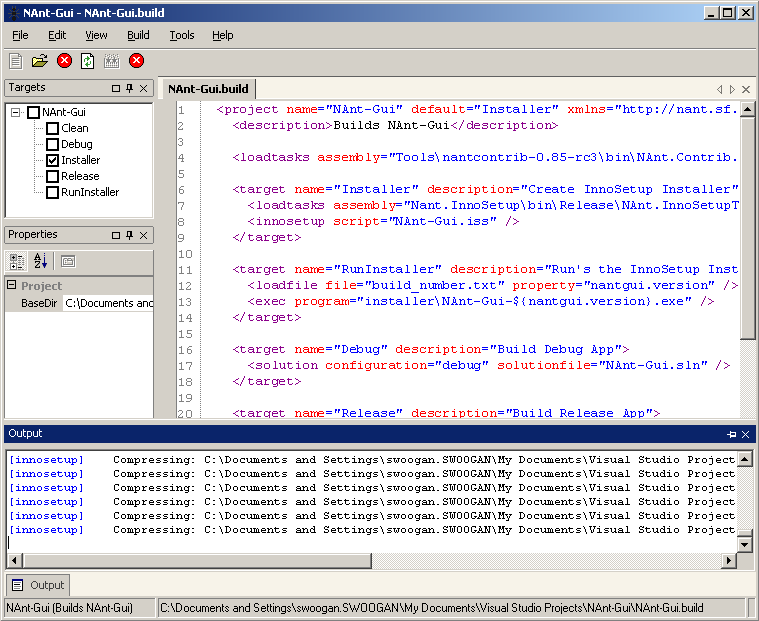
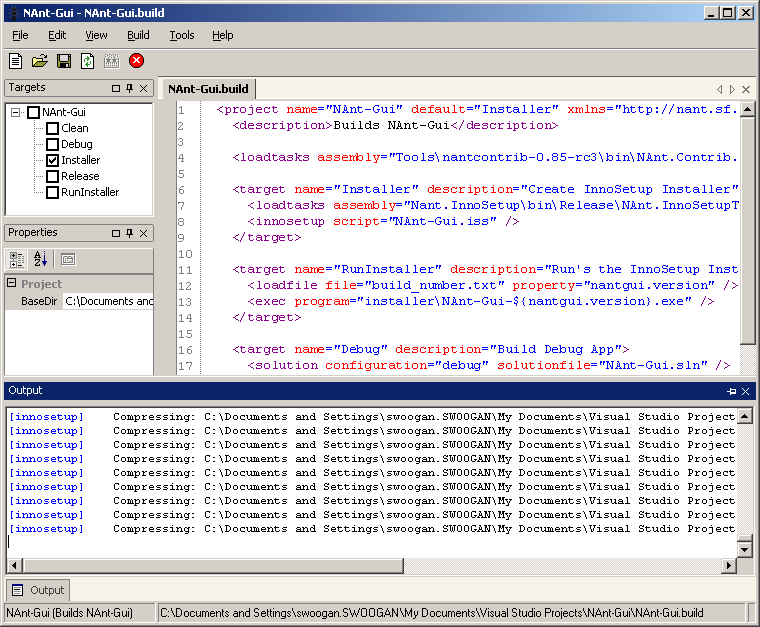
Fixed minor bug.

Changed region(s): [[0.0, 0.0, 1.0, 1.0]]

diff --git a/NAnt-Gui.Core/Controls/ToolBarControl.cs b/NAnt-Gui.Core/Controls/ToolBarControl.cs
@@ -55,8 +55,8 @@ namespace NAntGui.Core.Controls
 			//
 			// _saveButton
 			//
-			_saveButton.ImageIndex = 3;
-			_saveButton.ToolTipText = "Abort the Current Build";
+			_saveButton.ImageIndex = 2;
+			_saveButton.ToolTipText = "Save Build File";
 			_saveButton.Enabled = false;
 			//
 			// _reloadButton
